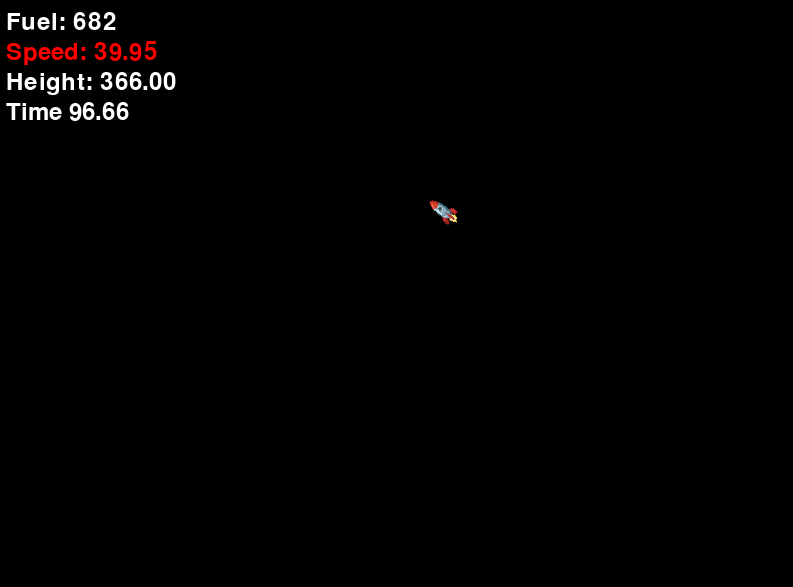
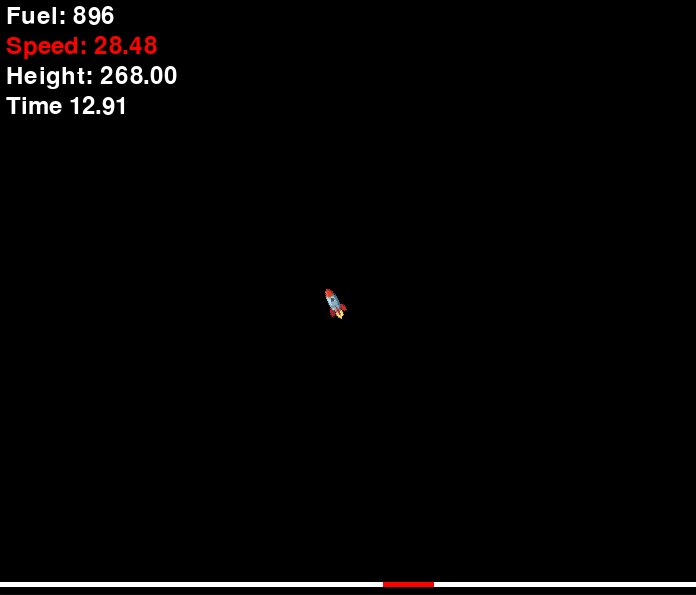
Update screenshot

diff --git a/README.md b/README.md
@@ -4,10 +4,7 @@ This is a simple spaceship game where you control a spaceship to land on a desig
 
 The game has been built in order to test a AI agent that can learn to play the game.
 
-![alt text](image.png)
-
 ![Game Screenshot](preview.png)
-
 
 ## Setup
 
